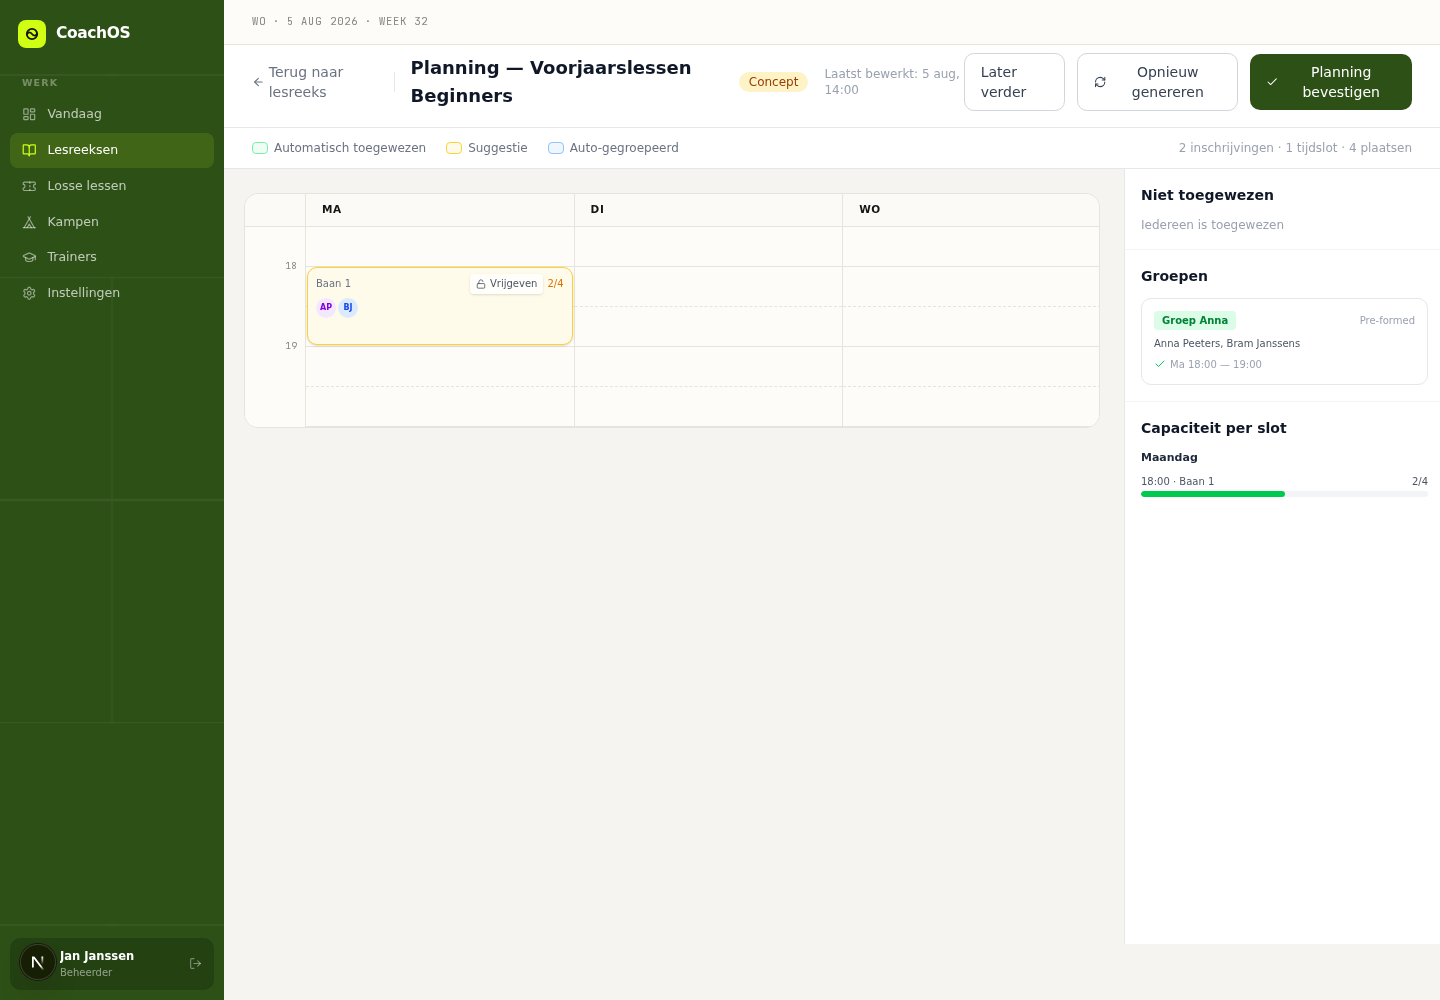
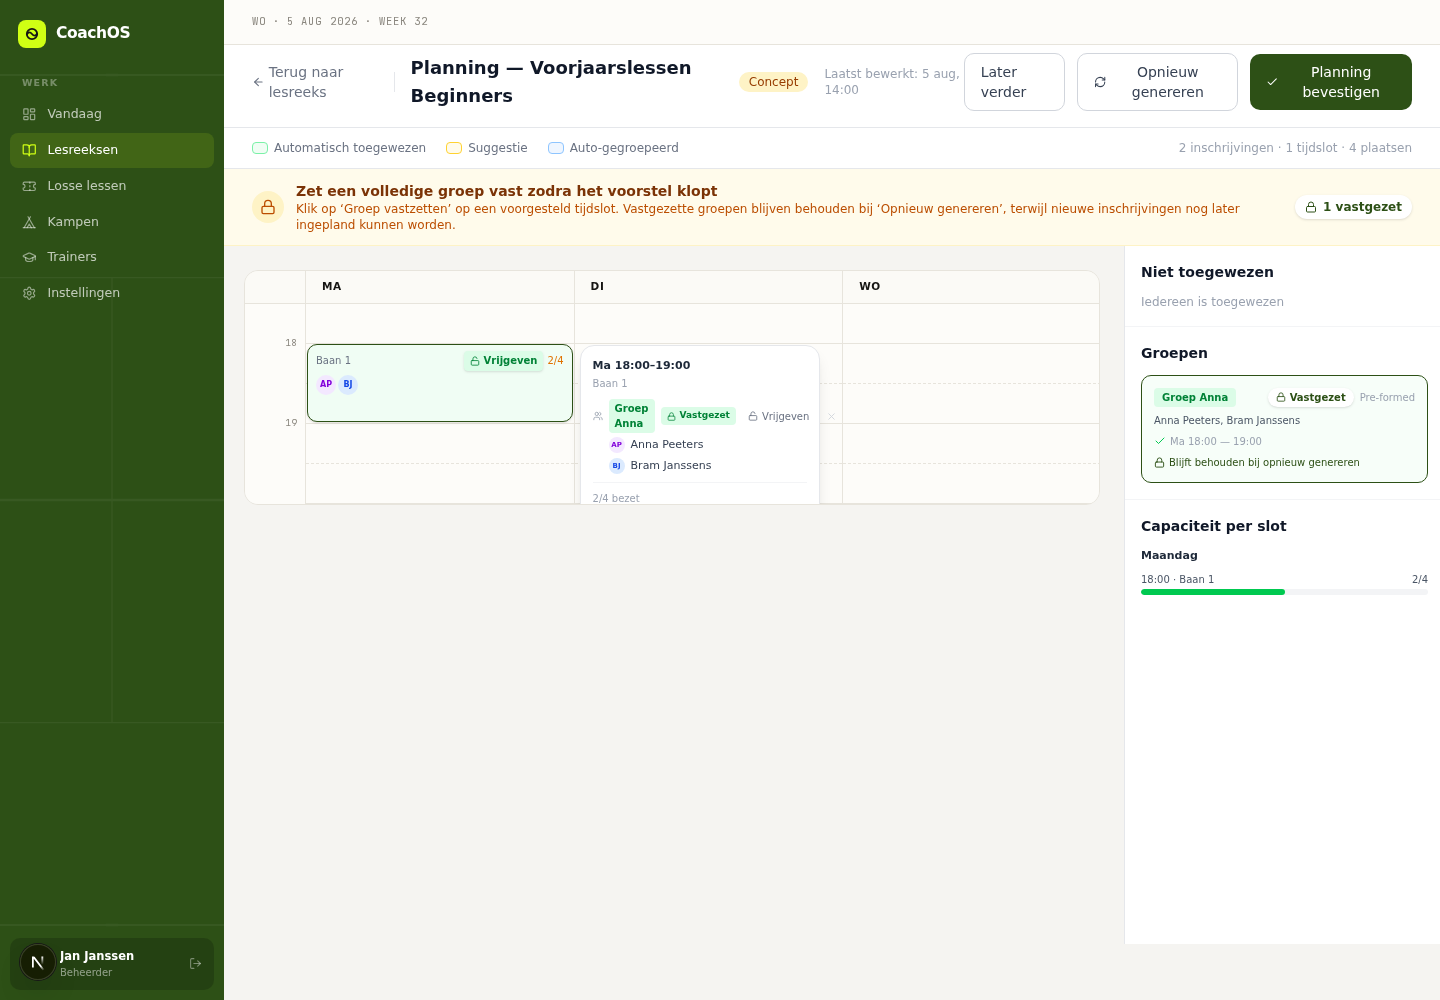
fix: clarify planning lock affordance

diff --git a/frontend/app/(dashboard)/dashboard/lessons/[id]/planning/page.tsx b/frontend/app/(dashboard)/dashboard/lessons/[id]/planning/page.tsx
@@ -276,6 +276,8 @@ export default function PlanningPage({
   const totalCapacity =
     planning?.timeSlots.reduce((sum, s) => sum + s.maxCapacity, 0) ?? 0;
   const totalEnrollments = planning?.enrollments.length ?? 0;
+  const lockedAssignmentsCount =
+    planning?.assignments.filter((assignment) => assignment.isLocked).length ?? 0;
 
   // Helper: get names for a slot's assignments
   function getSlotNames(slotId: string): string[] {
@@ -480,6 +482,26 @@ export default function PlanningPage({
         </div>
       </div>
 
+      {planning.planningStatus !== "Scheduled" && (
+        <div className="bg-amber-50 border-b border-amber-100 px-8 py-3 shrink-0">
+          <div className="flex items-center gap-3 text-sm text-amber-900">
+            <div className="flex h-8 w-8 shrink-0 items-center justify-center rounded-full bg-amber-100 text-amber-700">
+              <Lock size={16} />
+            </div>
+            <div className="min-w-0 flex-1">
+              <p className="font-semibold">{t("lockHelpTitle")}</p>
+              <p className="text-xs text-amber-700">{t("lockHelpDesc")}</p>
+            </div>
+            {lockedAssignmentsCount > 0 && (
+              <span className="inline-flex items-center gap-1.5 rounded-full bg-white px-2.5 py-1 text-xs font-semibold text-tennis-green shadow-sm">
+                <Lock size={12} />
+                {t("lockedCount", { count: lockedAssignmentsCount })}
+              </span>
+            )}
+          </div>
+        </div>
+      )}
+
       {/* Calendar + Sidebar */}
       <div className="flex-1 flex overflow-hidden">
         {/* Calendar area */}
@@ -526,16 +548,21 @@ export default function PlanningPage({
                     const hasProposed = slotHasProposed(slot.id);
                     const hasAutoMerged = slotAssignments.some((a) => a.isAutoMerged);
                     const lockableAssignment = slotAssignments.find((a) => a.status === "Proposed");
-                    const borderColor = hasAutoMerged
-                      ? "border-blue-300"
-                      : hasProposed
-                        ? "border-amber-300"
-                        : "border-green-300";
-                    const bgColor = hasAutoMerged
-                      ? "bg-blue-50"
-                      : hasProposed
-                        ? "bg-amber-50"
-                        : "bg-green-50";
+                    const lockedAssignment = slotAssignments.find((a) => a.isLocked);
+                    const borderColor = lockedAssignment
+                      ? "border-tennis-green"
+                      : hasAutoMerged
+                        ? "border-blue-300"
+                        : hasProposed
+                          ? "border-amber-300"
+                          : "border-green-300";
+                    const bgColor = lockedAssignment
+                      ? "bg-green-50"
+                      : hasAutoMerged
+                        ? "bg-blue-50"
+                        : hasProposed
+                          ? "bg-amber-50"
+                          : "bg-green-50";
 
                     return (
                       <div
@@ -618,7 +645,12 @@ export default function PlanningPage({
                                           {assignment.isAutoMerged && <span className="text-[9px] text-blue-500 italic">auto</span>}
                                         </>
                                       )}
-                                      {assignment.isLocked && <Lock size={9} className="text-gray-400 shrink-0" />}
+                                      {assignment.isLocked && (
+                                        <span className="inline-flex items-center gap-1 rounded bg-green-100 px-1.5 py-0.5 text-[9px] font-semibold text-green-700">
+                                          <Lock size={9} />
+                                          {t("locked")}
+                                        </span>
+                                      )}
                                       {assignment.status === "Proposed" && (
                                         <button
                                           type="button"
@@ -635,7 +667,11 @@ export default function PlanningPage({
                                           className="ml-auto shrink-0 inline-flex h-5 items-center gap-1 rounded px-1.5 text-[10px] font-medium text-gray-500 hover:bg-tennis-green/5 hover:text-tennis-green disabled:opacity-50"
                                         >
                                           {assignment.isLocked ? <Unlock size={10} /> : <Lock size={10} />}
-                                          {assignment.isLocked ? t("unlock") : t("lock")}
+                                          {assignment.isLocked
+                                            ? t("unlock")
+                                            : assignment.groupId
+                                              ? t("lockGroup")
+                                              : t("lock")}
                                         </button>
                                       )}
                                       <button
@@ -700,10 +736,18 @@ export default function PlanningPage({
                                   });
                                 }}
                                 disabled={lockMutation.isPending}
-                                className="inline-flex h-5 items-center gap-1 rounded bg-white/80 px-1.5 text-[10px] font-medium text-gray-600 shadow-sm hover:text-tennis-green disabled:opacity-50"
+                                className={`inline-flex h-5 items-center gap-1 rounded px-1.5 text-[10px] font-semibold shadow-sm disabled:opacity-50 ${
+                                  lockableAssignment.isLocked
+                                    ? "bg-green-100 text-green-700 hover:bg-green-200"
+                                    : "bg-white/90 text-tennis-green hover:bg-tennis-green/10"
+                                }`}
                               >
                                 {lockableAssignment.isLocked ? <Unlock size={10} /> : <Lock size={10} />}
-                                {lockableAssignment.isLocked ? t("unlock") : t("lock")}
+                                {lockableAssignment.isLocked
+                                  ? t("unlock")
+                                  : lockableAssignment.groupId
+                                    ? t("lockGroup")
+                                    : t("lock")}
                               </button>
                             )}
                             <span
@@ -1136,23 +1180,34 @@ export default function PlanningPage({
                     (a) => a.groupId === group.id
                   );
                   const isAutoMerged = groupAssignment?.isAutoMerged ?? false;
+                  const isLocked = groupAssignment?.isLocked ?? false;
 
                   return (
                     <div
                       key={group.id}
                       className={`border rounded-lg p-3 ${
-                        isAutoMerged
-                          ? "border-blue-200 bg-blue-50/30"
-                          : "border-gray-200"
+                        isLocked
+                          ? "border-tennis-green bg-green-50/50"
+                          : isAutoMerged
+                            ? "border-blue-200 bg-blue-50/30"
+                            : "border-gray-200"
                       }`}
                     >
                       <div className="flex items-center justify-between mb-1.5">
                         <span className="text-[10px] font-bold text-green-700 bg-green-100 px-2 py-0.5 rounded">
                           {group.name}
                         </span>
-                        <span className={`text-[10px] ${isAutoMerged ? "text-blue-500 italic" : "text-gray-400"}`}>
-                          {isAutoMerged ? t("autoGrouped") : t("preFormed")}
-                        </span>
+                        <div className="flex items-center gap-1.5">
+                          {isLocked && (
+                            <span className="inline-flex items-center gap-1 rounded-full bg-white px-2 py-0.5 text-[10px] font-semibold text-tennis-green shadow-sm">
+                              <Lock size={10} />
+                              {t("locked")}
+                            </span>
+                          )}
+                          <span className={`text-[10px] ${isAutoMerged ? "text-blue-500 italic" : "text-gray-400"}`}>
+                            {isAutoMerged ? t("autoGrouped") : t("preFormed")}
+                          </span>
+                        </div>
                       </div>
                       <div className="text-[10px] text-gray-600">
                         {memberNames}
@@ -1161,6 +1216,12 @@ export default function PlanningPage({
                         <div className="text-[10px] text-gray-400 mt-1.5 flex items-center gap-1">
                           <Check size={12} className="text-green-500" />
                           {slotLabel}
+                        </div>
+                      )}
+                      {isLocked && (
+                        <div className="mt-1.5 flex items-center gap-1 text-[10px] font-medium text-tennis-green">
+                          <Lock size={11} />
+                          {t("lockedKeepsOnRegenerate")}
                         </div>
                       )}
                     </div>

diff --git a/frontend/e2e/planning-lock.spec.ts b/frontend/e2e/planning-lock.spec.ts
@@ -84,9 +84,25 @@ test.describe("planning assignment locking", () => {
     });
 
     await page.goto(`/dashboard/lessons/${SERIES_ID}/planning`);
+
+    await expect(page.getByText("Zet een volledige groep vast zodra het voorstel klopt")).toBeVisible();
     await page.getByText("Anna Peeters").hover();
     await page.getByRole("button", { name: "Vastzetten" }).click();
 
     await expect.poll(() => lockCalled).toBe(true);
+  });
+
+  test("clearly marks a locked group as preserved on regenerate", async ({ page }) => {
+    await mockApi(page, "GET", `/lessonseries/${SERIES_ID}/planning`, {
+      ...planningOverview,
+      assignments: [{ ...planningOverview.assignments[0], isLocked: true }],
+    });
+
+    await page.goto(`/dashboard/lessons/${SERIES_ID}/planning`);
+
+    await expect(page.getByText("1 vastgezet")).toBeVisible();
+    await expect(page.getByText("Vastgezet").first()).toBeVisible();
+    await expect(page.getByText("Blijft behouden bij opnieuw genereren")).toBeVisible();
+    await expect(page.getByRole("button", { name: "Vrijgeven" }).first()).toBeVisible();
   });
 });
